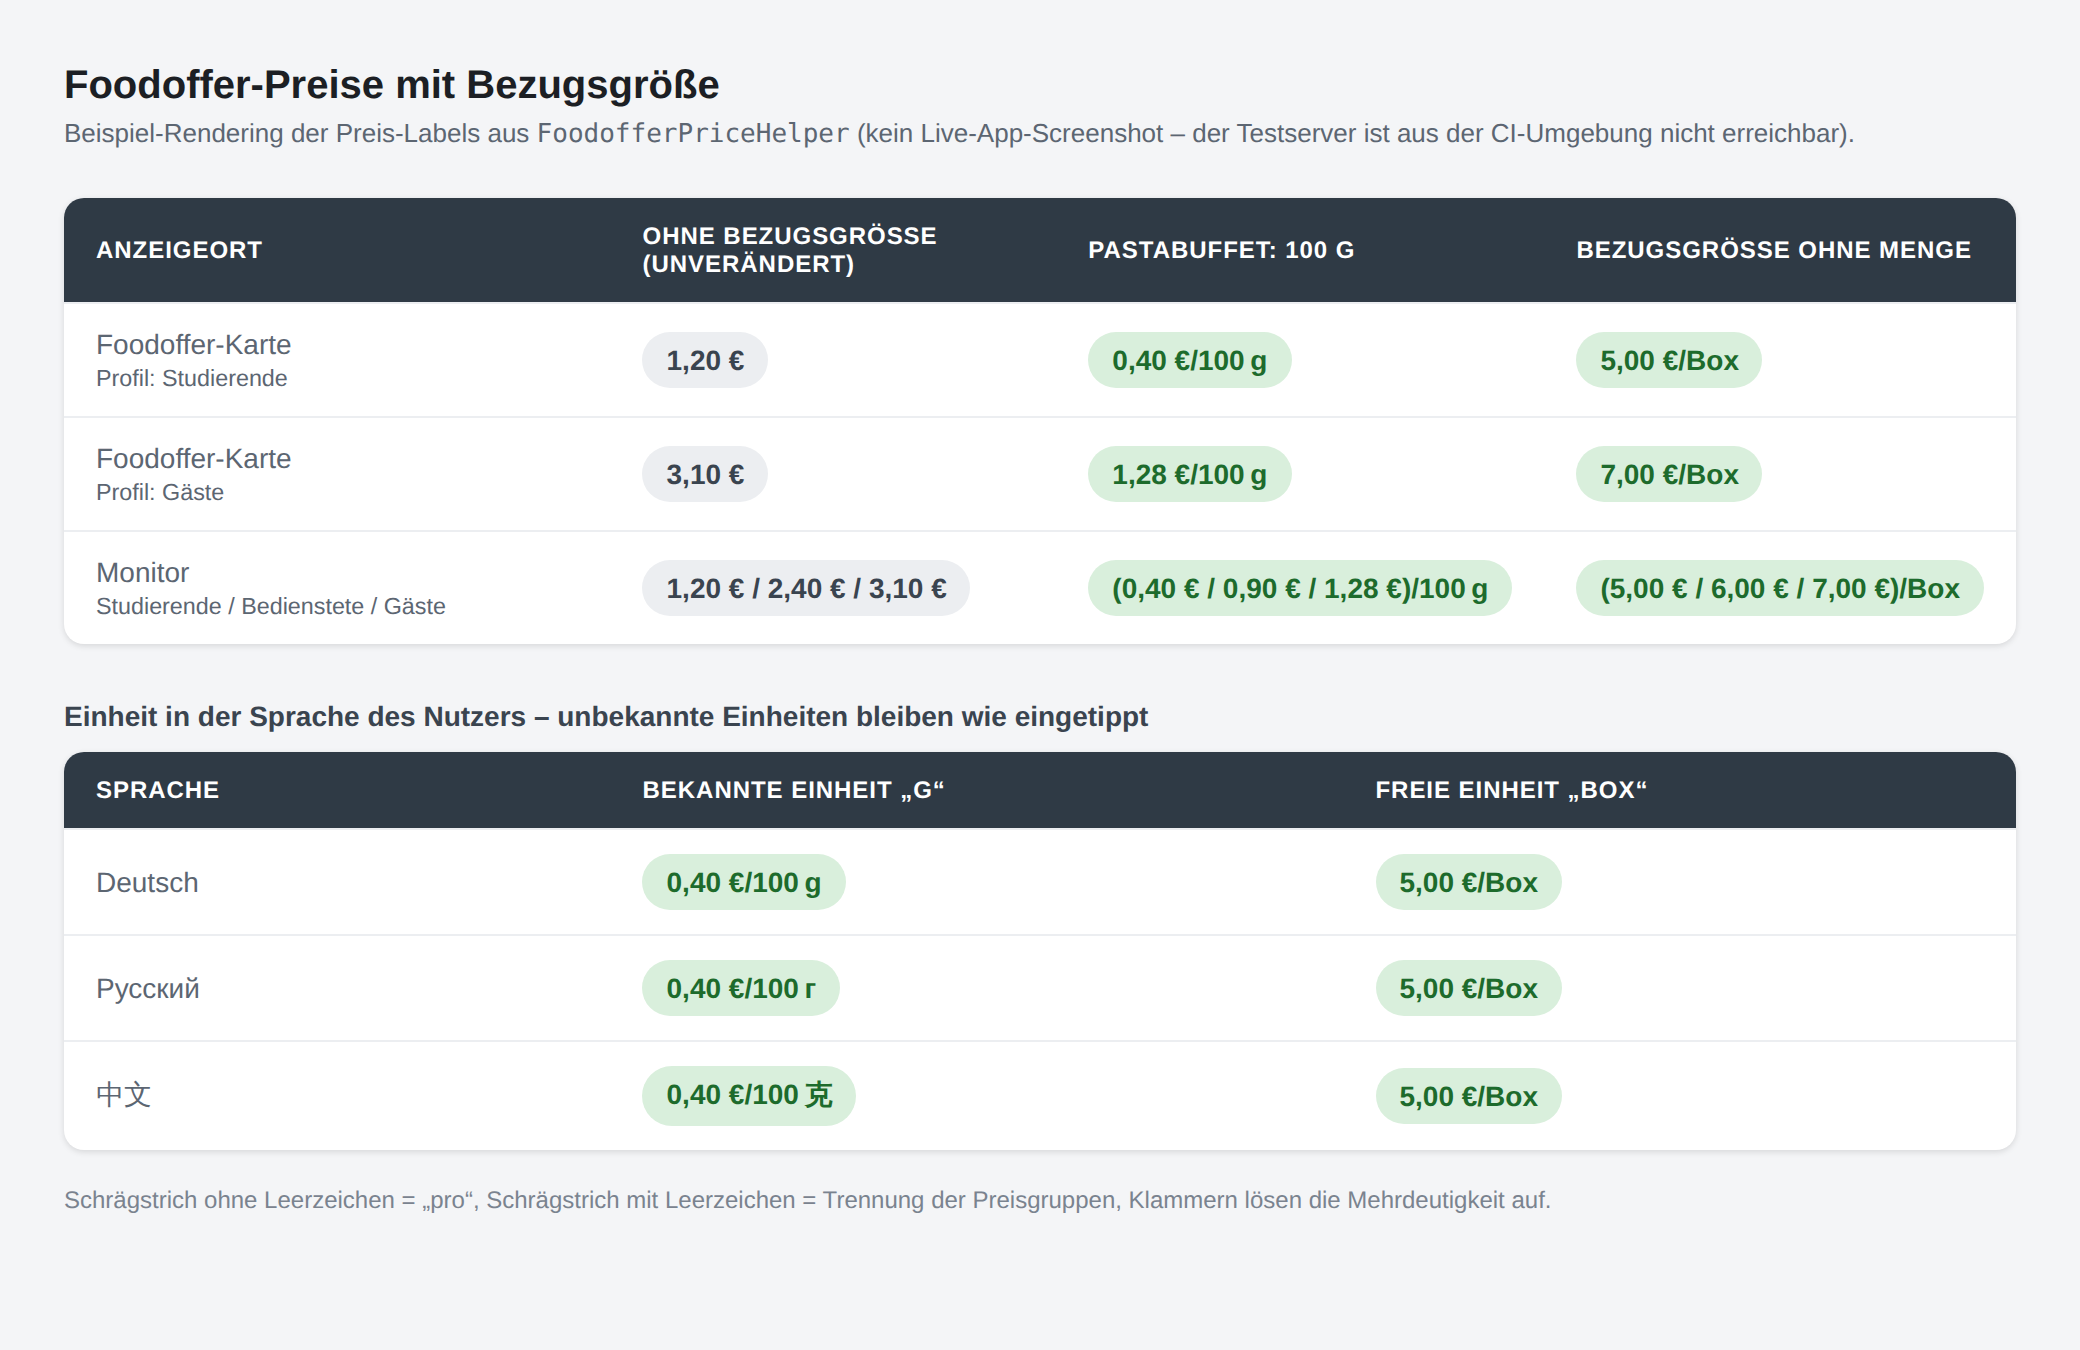
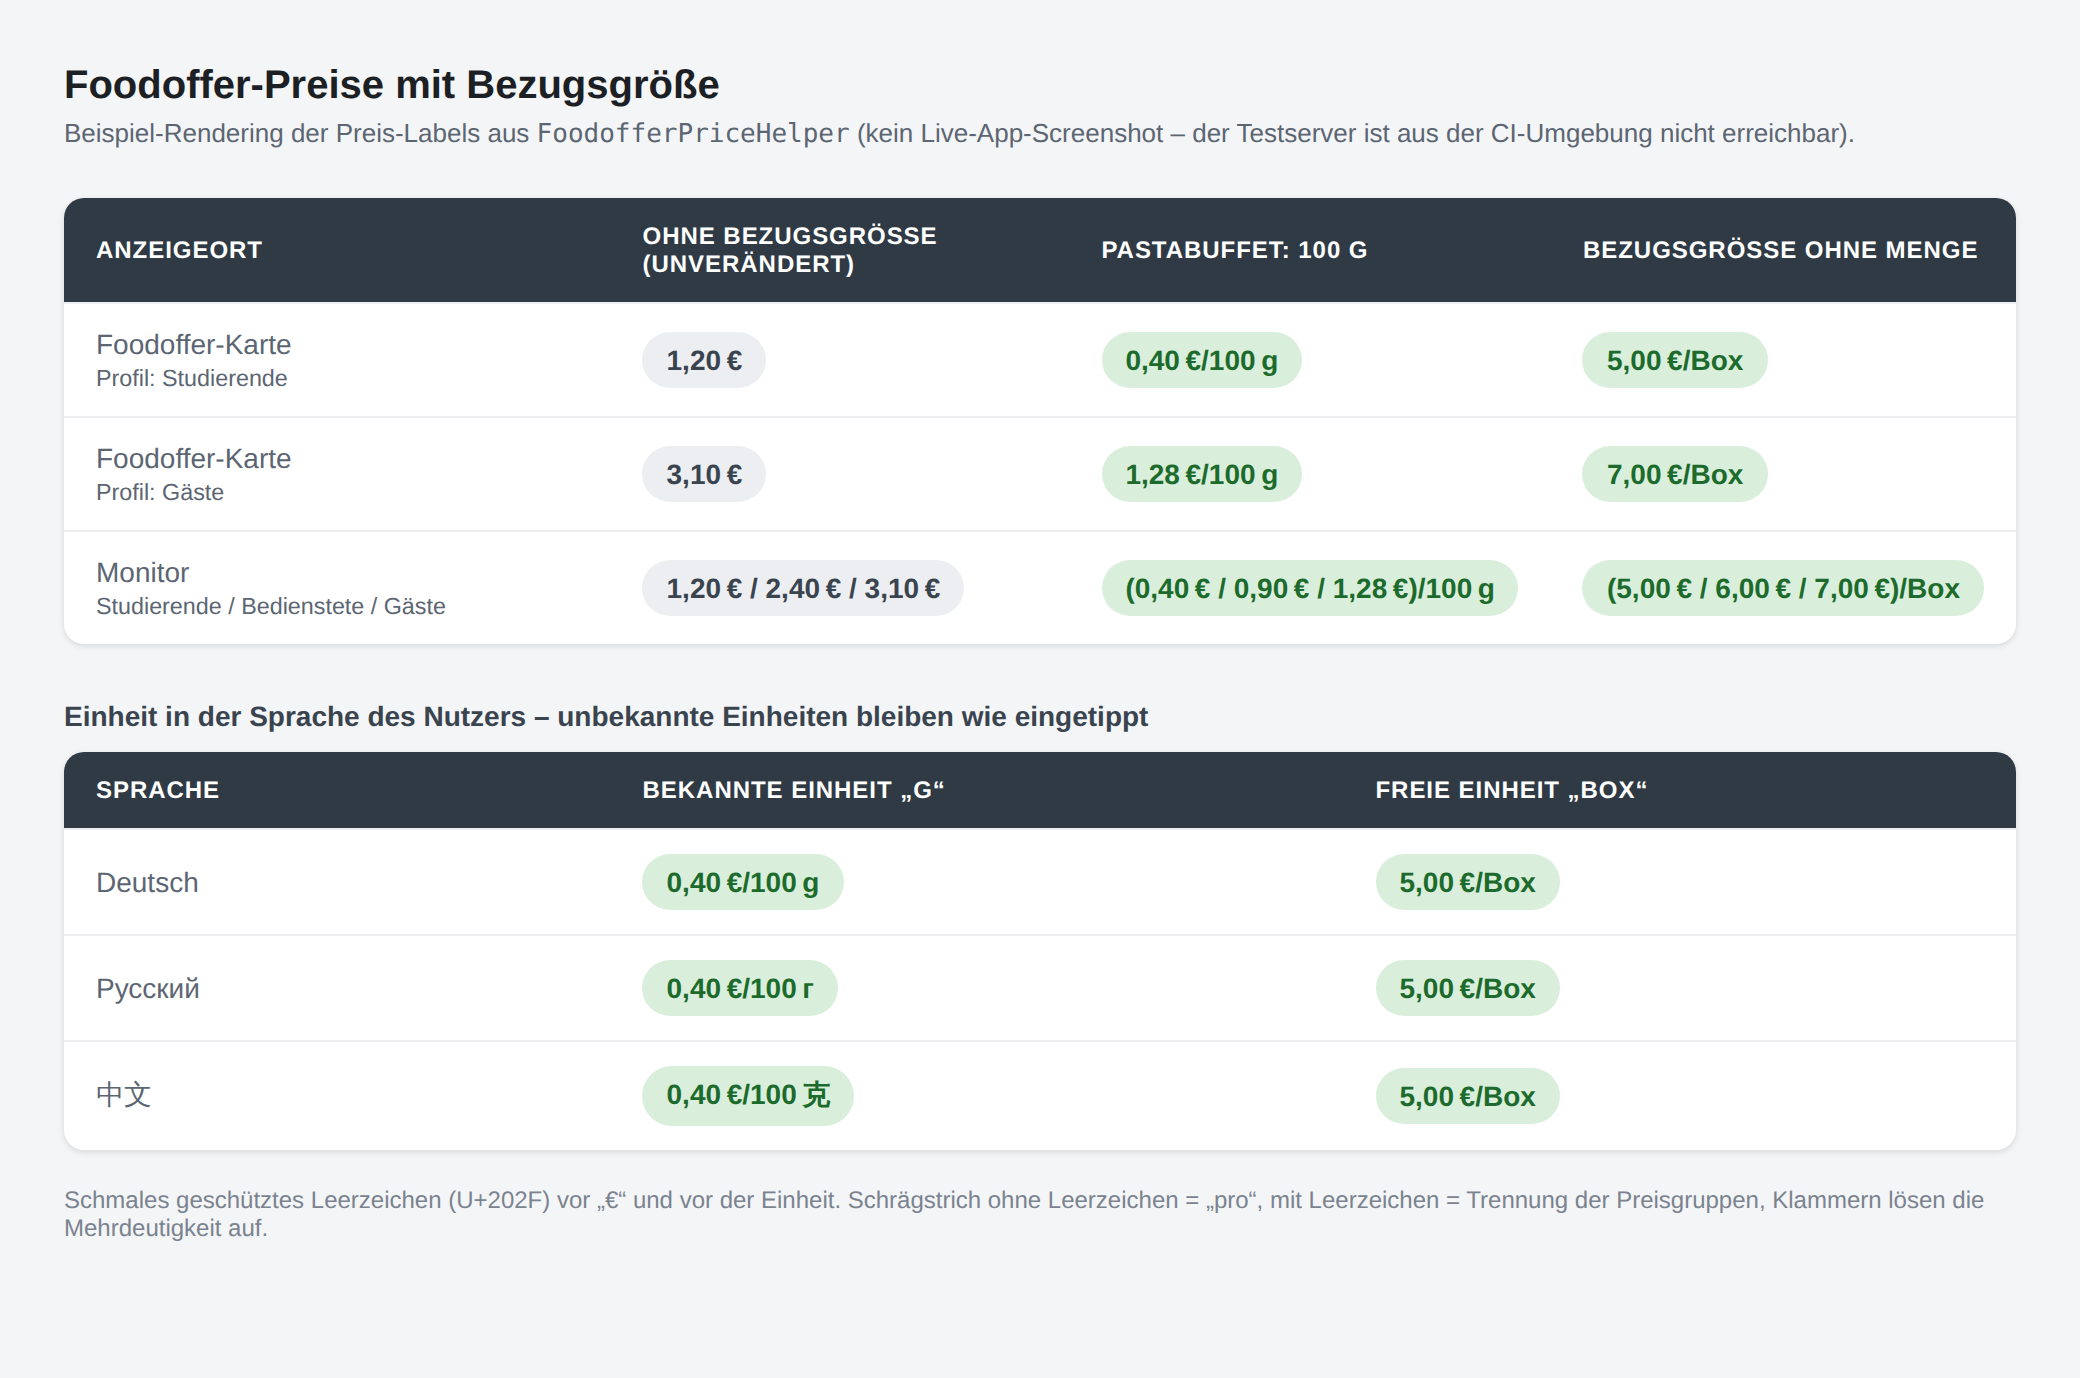
style(foodoffers): schmales geschütztes Leerzeichen vor dem Euro-Zeichen
Der Abstand zwischen Betrag und Währungssymbol ist jetzt ein NNBSP (U+202F)
statt eines vollen geschützten Leerzeichens - dasselbe Zeichen, das schon
zwischen Bezugsmenge und Einheit steht. Damit ist "0,40 €/100 g" durchgehend
gleich gesetzt.

NumberHelper.formatNumber hängt seine Einheit mit einem vollen NBSP an und wird
auch für Nährwerte und Speisen-Attribute genutzt; das Währungssymbol wird
deshalb in FoodofferPriceHelper.formatPrice selbst angehängt statt die geteilte
Funktion zu ändern. Über showFormatedPrice gilt das auch für den Kontostand.

Claude-Session: https://claude.ai/code/session_01XHbE6niwuUxKfj2G3WVtvX

diff --git a/packages/common/src/__tests__/FoodofferPriceHelper.test.ts b/packages/common/src/__tests__/FoodofferPriceHelper.test.ts
@@ -1,6 +1,6 @@
 import { CommonTranslationKeys, commonTranslations, FoodofferPriceHelper, PriceGroups, StringHelper } from 'repo-depkit-common';
 
-const NBSP = StringHelper.NONBREAKING_SPACE;
+// Prices and reference amounts both use a narrow no-break space (U+202F) before their symbol.
 const HALF_SPACE = StringHelper.NONBREAKING_HALF_SPACE;
 
 const foodofferWithoutReference = {
@@ -54,35 +54,35 @@ describe('FoodofferPriceHelper.getPriceReference', () => {
 
 describe('FoodofferPriceHelper.getPriceLabelForPriceGroup', () => {
 	it('shows a plain price when the food offer has no price reference', () => {
-		expect(FoodofferPriceHelper.getPriceLabelForPriceGroup(foodofferWithoutReference, PriceGroups.student)).toBe(`1,00${NBSP}€`);
+		expect(FoodofferPriceHelper.getPriceLabelForPriceGroup(foodofferWithoutReference, PriceGroups.student)).toBe(`1,00${HALF_SPACE}€`);
 	});
 
 	it('shows a base price when the food offer has a price reference', () => {
-		expect(FoodofferPriceHelper.getPriceLabelForPriceGroup(pastaBuffet, PriceGroups.student)).toBe(`0,40${NBSP}€/100${HALF_SPACE}g`);
-		expect(FoodofferPriceHelper.getPriceLabelForPriceGroup(pastaBuffet, PriceGroups.guest)).toBe(`1,28${NBSP}€/100${HALF_SPACE}g`);
+		expect(FoodofferPriceHelper.getPriceLabelForPriceGroup(pastaBuffet, PriceGroups.student)).toBe(`0,40${HALF_SPACE}€/100${HALF_SPACE}g`);
+		expect(FoodofferPriceHelper.getPriceLabelForPriceGroup(pastaBuffet, PriceGroups.guest)).toBe(`1,28${HALF_SPACE}€/100${HALF_SPACE}g`);
 	});
 
 	it('omits the amount when the price refers to a single unit', () => {
 		const boxOffer = { price_student: 1, price_reference_amount: 1, price_reference_unit: 'Box' };
-		expect(FoodofferPriceHelper.getPriceLabelForPriceGroup(boxOffer, PriceGroups.student)).toBe(`1,00${NBSP}€/Box`);
+		expect(FoodofferPriceHelper.getPriceLabelForPriceGroup(boxOffer, PriceGroups.student)).toBe(`1,00${HALF_SPACE}€/Box`);
 	});
 
 	it('keeps the previous fallback for food offers without a price', () => {
-		expect(FoodofferPriceHelper.getPriceLabelForPriceGroup({}, PriceGroups.student)).toBe(`0,00${NBSP}€`);
+		expect(FoodofferPriceHelper.getPriceLabelForPriceGroup({}, PriceGroups.student)).toBe(`0,00${HALF_SPACE}€`);
 	});
 });
 
 describe('FoodofferPriceHelper.getPriceLabelForPriceGroups', () => {
 	it('joins the price groups unchanged when there is no price reference', () => {
-		expect(FoodofferPriceHelper.getPriceLabelForPriceGroups(foodofferWithoutReference)).toBe(`1,00${NBSP}€ / 2,00${NBSP}€ / 3,00${NBSP}€`);
+		expect(FoodofferPriceHelper.getPriceLabelForPriceGroups(foodofferWithoutReference)).toBe(`1,00${HALF_SPACE}€ / 2,00${HALF_SPACE}€ / 3,00${HALF_SPACE}€`);
 	});
 
 	it('brackets the price groups so the reference cannot be misread as a separator', () => {
-		expect(FoodofferPriceHelper.getPriceLabelForPriceGroups(pastaBuffet)).toBe(`(0,40${NBSP}€ / 0,90${NBSP}€ / 1,28${NBSP}€)/100${HALF_SPACE}g`);
+		expect(FoodofferPriceHelper.getPriceLabelForPriceGroups(pastaBuffet)).toBe(`(0,40${HALF_SPACE}€ / 0,90${HALF_SPACE}€ / 1,28${HALF_SPACE}€)/100${HALF_SPACE}g`);
 	});
 
 	it('does not bracket a single price group', () => {
-		expect(FoodofferPriceHelper.getPriceLabelForPriceGroups(pastaBuffet, [PriceGroups.student])).toBe(`0,40${NBSP}€/100${HALF_SPACE}g`);
+		expect(FoodofferPriceHelper.getPriceLabelForPriceGroups(pastaBuffet, [PriceGroups.student])).toBe(`0,40${HALF_SPACE}€/100${HALF_SPACE}g`);
 	});
 });
 
@@ -145,37 +145,37 @@ describe('FoodofferPriceHelper unit translation', () => {
 	const createTranslator = (language: 'de' | 'ru' | 'zh') => (key: string) => commonTranslations[key]?.[language] ?? key;
 
 	it('translates a known unit into the language of the viewer', () => {
-		expect(FoodofferPriceHelper.getPriceLabelForPriceGroup(pastaBuffet, PriceGroups.student, createTranslator('ru'))).toBe(`0,40${NBSP}€/100${HALF_SPACE}г`);
-		expect(FoodofferPriceHelper.getPriceLabelForPriceGroup(pastaBuffet, PriceGroups.student, createTranslator('zh'))).toBe(`0,40${NBSP}€/100${HALF_SPACE}克`);
+		expect(FoodofferPriceHelper.getPriceLabelForPriceGroup(pastaBuffet, PriceGroups.student, createTranslator('ru'))).toBe(`0,40${HALF_SPACE}€/100${HALF_SPACE}г`);
+		expect(FoodofferPriceHelper.getPriceLabelForPriceGroup(pastaBuffet, PriceGroups.student, createTranslator('zh'))).toBe(`0,40${HALF_SPACE}€/100${HALF_SPACE}克`);
 	});
 
 	it('keeps the latin unit symbols unchanged where the language uses them', () => {
-		expect(FoodofferPriceHelper.getPriceLabelForPriceGroup(pastaBuffet, PriceGroups.student, createTranslator('de'))).toBe(`0,40${NBSP}€/100${HALF_SPACE}g`);
+		expect(FoodofferPriceHelper.getPriceLabelForPriceGroup(pastaBuffet, PriceGroups.student, createTranslator('de'))).toBe(`0,40${HALF_SPACE}€/100${HALF_SPACE}g`);
 	});
 
 	it('recognises a known unit regardless of its case', () => {
 		const literOffer = { price_student: 2, price_reference_amount: 1, price_reference_unit: 'L' };
-		expect(FoodofferPriceHelper.getPriceLabelForPriceGroup(literOffer, PriceGroups.student, createTranslator('ru'))).toBe(`2,00${NBSP}€/л`);
+		expect(FoodofferPriceHelper.getPriceLabelForPriceGroup(literOffer, PriceGroups.student, createTranslator('ru'))).toBe(`2,00${HALF_SPACE}€/л`);
 	});
 
 	it('shows an unknown unit exactly as it was typed', () => {
 		const boxOffer = { price_student: 5, price_reference_unit: 'Box' };
 		const schaleOffer = { price_student: 3, price_reference_amount: 2, price_reference_unit: 'Schalen' };
-		expect(FoodofferPriceHelper.getPriceLabelForPriceGroup(boxOffer, PriceGroups.student, createTranslator('zh'))).toBe(`5,00${NBSP}€/Box`);
-		expect(FoodofferPriceHelper.getPriceLabelForPriceGroup(schaleOffer, PriceGroups.student, createTranslator('ru'))).toBe(`3,00${NBSP}€/2${HALF_SPACE}Schalen`);
+		expect(FoodofferPriceHelper.getPriceLabelForPriceGroup(boxOffer, PriceGroups.student, createTranslator('zh'))).toBe(`5,00${HALF_SPACE}€/Box`);
+		expect(FoodofferPriceHelper.getPriceLabelForPriceGroup(schaleOffer, PriceGroups.student, createTranslator('ru'))).toBe(`3,00${HALF_SPACE}€/2${HALF_SPACE}Schalen`);
 	});
 
 	it('falls back to the raw unit when no translator is passed', () => {
-		expect(FoodofferPriceHelper.getPriceLabelForPriceGroup(pastaBuffet, PriceGroups.student)).toBe(`0,40${NBSP}€/100${HALF_SPACE}g`);
+		expect(FoodofferPriceHelper.getPriceLabelForPriceGroup(pastaBuffet, PriceGroups.student)).toBe(`0,40${HALF_SPACE}€/100${HALF_SPACE}g`);
 	});
 
 	it('falls back to the raw unit when the translator only echoes the key back', () => {
 		const echoingTranslator = (key: string) => key;
-		expect(FoodofferPriceHelper.getPriceLabelForPriceGroup(pastaBuffet, PriceGroups.student, echoingTranslator)).toBe(`0,40${NBSP}€/100${HALF_SPACE}g`);
+		expect(FoodofferPriceHelper.getPriceLabelForPriceGroup(pastaBuffet, PriceGroups.student, echoingTranslator)).toBe(`0,40${HALF_SPACE}€/100${HALF_SPACE}g`);
 	});
 
 	it('translates the unit on the monitors as well', () => {
-		expect(FoodofferPriceHelper.getPriceLabelForPriceGroups(pastaBuffet, undefined, createTranslator('ru'))).toBe(`(0,40${NBSP}€ / 0,90${NBSP}€ / 1,28${NBSP}€)/100${HALF_SPACE}г`);
+		expect(FoodofferPriceHelper.getPriceLabelForPriceGroups(pastaBuffet, undefined, createTranslator('ru'))).toBe(`(0,40${HALF_SPACE}€ / 0,90${HALF_SPACE}€ / 1,28${HALF_SPACE}€)/100${HALF_SPACE}г`);
 	});
 
 	it('has a text for every unit of the Directus dropdown', () => {

diff --git a/packages/common/src/FoodofferPriceHelper.ts b/packages/common/src/FoodofferPriceHelper.ts
@@ -90,9 +90,16 @@ export class FoodofferPriceHelper {
     return { amount, unit };
   }
 
-  /** `1` -> `"1,00 €"`, `null` -> `"0,00 €"` (the fallback the apps showed before). */
+  /**
+   * `1` -> `"1,00 €"`, `null` -> `"0,00 €"` (the fallback the apps showed before).
+   *
+   * The gap before the currency symbol is a narrow no-break space (U+202F), the same one that
+   * separates a reference amount from its unit - so "0,40 €/100 g" is spaced consistently.
+   * `NumberHelper.formatNumber` would use a full no-break space, hence the manual suffix.
+   */
   static formatPrice(price: number | null | undefined): string {
-    return NumberHelper.formatNumber(price ?? 0, FoodofferPriceHelper.CURRENCY_SYMBOL, true, ',', '.', 2);
+    const formattedAmount = NumberHelper.formatNumber(price ?? 0, null, true, ',', '.', 2);
+    return formattedAmount + StringHelper.NONBREAKING_HALF_SPACE + FoodofferPriceHelper.CURRENCY_SYMBOL;
   }
 
   /**

diff --git a/apps/frontend/app/config.ts b/apps/frontend/app/config.ts
@@ -82,7 +82,8 @@ export function getVersionPatch() {
         // 24: language codes matched case- and region-insensitively when picking a translation
         // 25: food offers sold by weight show a base price ("0,40 €/100 g")
         // 26: the unit of that base price is translated where it is a known unit
-        return 26;
+        // 27: narrow no-break space before the € symbol, as before a unit
+        return 27;
 }
 
 export function getVersionInternalForAppsettingsScreen() {

diff --git a/apps/geonexia/frontend/config.ts b/apps/geonexia/frontend/config.ts
@@ -49,7 +49,8 @@ export function getVersionPatch() {
 	// 22: translation lookup accepts a language code in any case and region
 	// 23: shared food offer price helper added to repo-depkit-common
 	// 24: shared translation catalogue gained the measurement unit symbols
-	return 24;
+	// 25: shared price formatting uses a narrow no-break space before the symbol
+	return 25;
 }
 
 // Version used for app.config.ts (`version`, and thus the expo-updates

diff --git a/apps/score-tracker/frontend/config.ts b/apps/score-tracker/frontend/config.ts
@@ -46,7 +46,8 @@ export function getVersionPatch() {
 	// 16: translation lookup accepts a language code in any case and region
 	// 17: shared food offer price helper added to repo-depkit-common
 	// 18: shared translation catalogue gained the measurement unit symbols
-	return 18;
+	// 19: shared price formatting uses a narrow no-break space before the symbol
+	return 19;
 }
 
 // Version used for app.config.ts (`version`, and thus the expo-updates

diff --git a/apps/tag-und-jahr/frontend/config.ts b/apps/tag-und-jahr/frontend/config.ts
@@ -40,7 +40,8 @@ export function getVersionPatch() {
 	// 11: translation lookup accepts a language code in any case and region
 	// 12: shared food offer price helper added to repo-depkit-common
 	// 13: shared translation catalogue gained the measurement unit symbols
-	return 13;
+	// 14: shared price formatting uses a narrow no-break space before the symbol
+	return 14;
 }
 
 // Version used for app.config.ts (`version`, and thus the expo-updates
